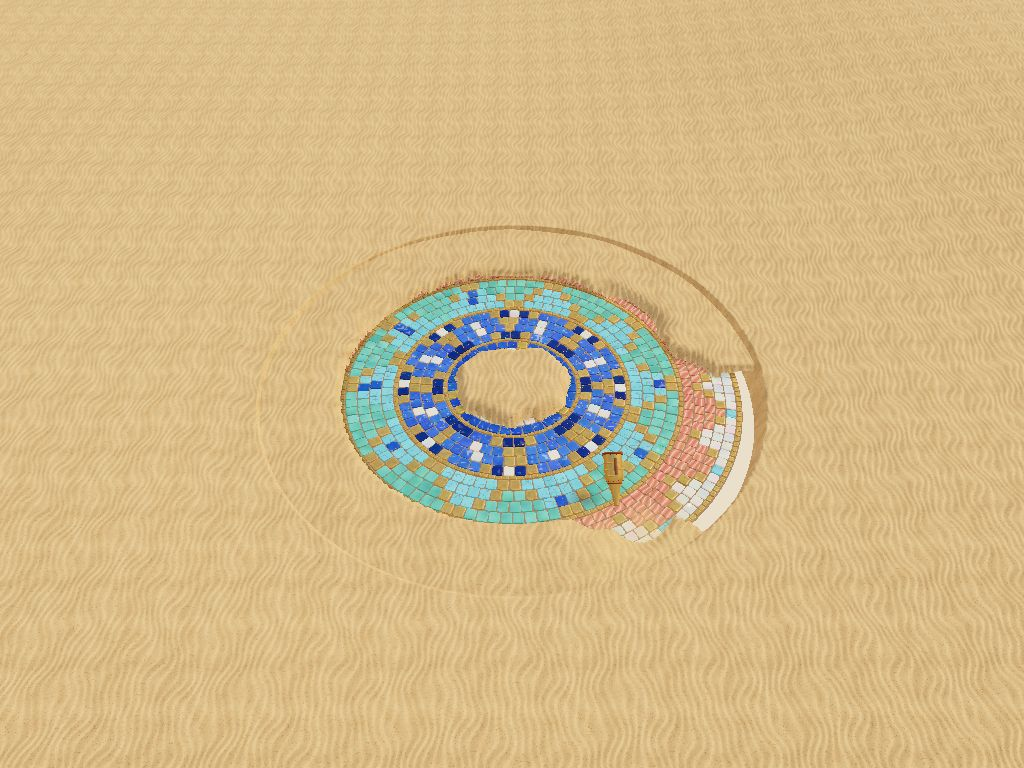
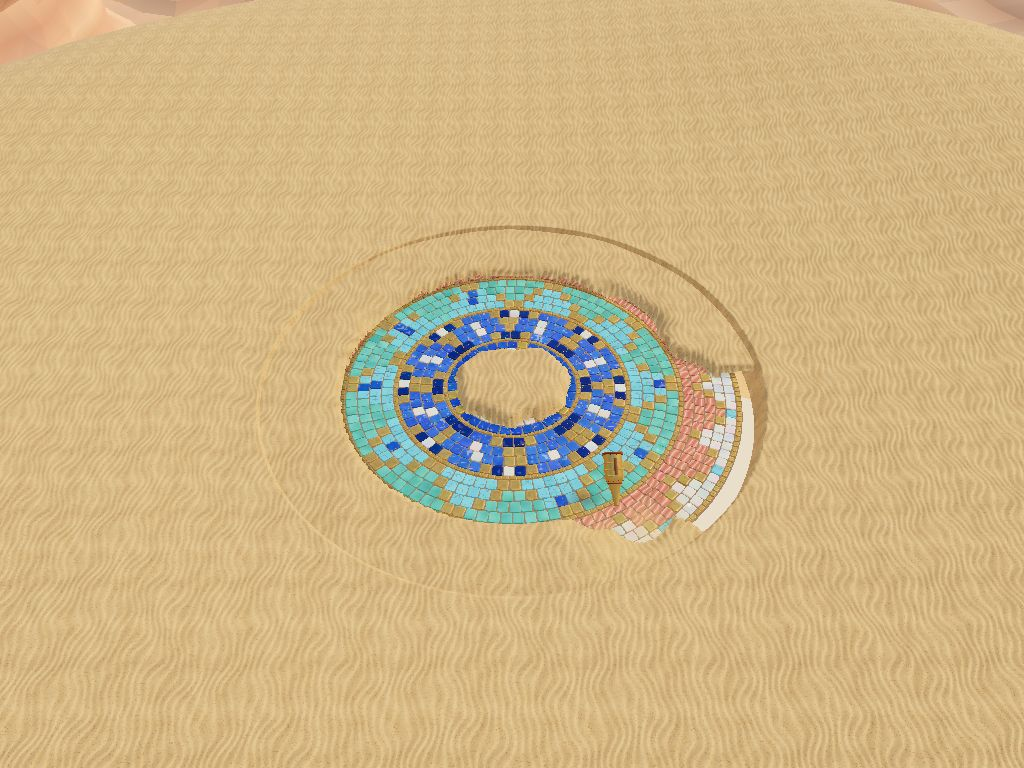
E07: final test log, screenshots, thumbnail and notes
Claude-Session: https://claude.ai/code/session_017tygc2wiUSmheFGSAZKCV9

diff --git a/logs/e07/notes.md b/logs/e07/notes.md
@@ -1,0 +1,40 @@
+# E07 すなばくに ねむる たからもの — 実装メモ
+
+実装: `site/games/e07/index.html`（HTML + CSS + JS を1ファイル。Three.js r0.187.0 同梱版を importmap で読み込み。CDN・外部画像・外部モデル・音声ファイルなし）
+
+## 実装の要点
+
+- **遊び**: 砂に埋もれた直径14mの円形モザイク（＋砂岩の枠で直径約15.2m）を、真鍮の送風機で吹いて発掘する。指が触れている間は自動で送風（離すと0.3秒で停止）。タップでも一度に砂が飛ぶ。開始メニューなし、最初のタッチでそのまま開始。
+  - 砂は 256×256 の動的マスク（厚み）で管理。楕円の扇形ブラシ（段階ごとに幅 1.0/1.3/1.6/1.8m、指が速いほど広がる）で厚みを連続的に減らし、指の移動経路に沿ってスタンプを補間。砂の面はマスクで頂点を持ち上げたメッシュ（法線も高さから計算）なので、厚みのある砂の壁が削れていくように見える。薄い所は粒状に抜けて石が見える。
+  - 除去量に比例して粒子を出す（細かい砂粒＝速く飛ぶ、大きい砂粒＝放物線で落下・着地、砂煙＝広がって消える、最大不透明度 0.19）。プール方式・上限は画質ごと（2400/1000/400）。除去した量に応じてモザイクの外側に砂がわずかに積もる。
+  - 28区画（4段階×7区画、同心円の帯）。各区画 82% 除去で成功 → 残りを0.55秒で吹き飛ばす・区画の金の縁に光が走る・成功音・金の光粒子。段階完了で帯全体を光が一周（第2段階は内周と中周がつながる）。順序は強制せず、先の段階を掘っても保存。
+  - 放置時の誘導: 2.5秒 砂の隙間から石がきらめく／4秒 その辺りの砂が揺れる／6秒 送風機がそちらを向きファンが回って砂がふわっと舞う／以後くり返し。誘導だけで区画は完成しない。
+  - クライマックス（12秒）: 0〜2秒 中央の砂粒が吹き飛ぶ → 2〜5秒 中央円盤が0.15mせり上がり毎秒20°で回転 → 5〜7秒 太陽の意匠が輝く → 7〜9秒 光の波が内周・中周・外周へ → 9〜10秒 全体が輝き金の粒子 → 10〜12秒 落ち着く。その後フリープレイ（吹くと微細な砂と光の粒が舞う）、10秒操作がなければ風が約10秒かけて砂を戻し、最初の状態（青い石が一部見える）に戻る。
+- **絵作り**: 空はグラデーション＋太陽のシェーダー、積雲はノイズで変形した球の集合（下が平ら、陰が青灰色、縁の光）。地形は「発掘現場のある台地 → 谷へ下る → 谷に赤褐色の岩山（水平な地層の色、浸食された凹凸）→ 霞の地平線と、その向こうから立ち上がる積雲」。砂は手続き生成の色と風紋の法線マップ。モザイクは InstancedMesh の面取り石片（low 約1500 / mid 1900 / high 2600、厚み0.025〜0.07m、目地・高さのばらつき・わずかな傾き）。石の種類ごとに模様をシェーダーで追加（ラピスの金の斑点、トルコ石の母岩の筋、瑪瑙の縞、真珠母貝の見る角度で変わる虹色、金の傷）。周囲に砂が残っている石は暗くなる（掘った穴の感じ）。
+  - 送風機: 真鍮の胴・吸気口の中で回るファン・細くなるノズル・銅のリングとボルト・木の持ち手。指の位置を0.1秒で追い、本体は画面上で指より奥側に浮かぶ（指で隠れない）。送風中は振動。
+  - 時間帯: 発掘の進み具合に合わせて太陽仰角 55°→42°→28°、色・空・光の強さを指示文の表どおりに連続変化。環境マップはこの空と雲から PMREM で生成（時間帯が一定以上変わったとき再生成）。
+  - **白飛び対策（前回の反省）**: ACESFilmic、露出 0.96（最大でも +0.03）、ブルームは最大 1.1・しきい値 0.92。画面全体のフラッシュなし。光は石片の発光（金細工を中心、色石は自分の色）で表現し、全体発光の色石への寄与を小さくした。クライマックス最大時のスクリーンショットで、太陽の意匠・各色石・輪郭・空/雲/岩山が見えることを確認。
+- **カメラ**: モザイク中心を常に画面中央に置く固定軸。縦横どちらでも、外縁（せり上がり分を含む）が画面短辺の65〜80%に入るよう、毎フレーム距離を計算（縦横の視野角の両方で判定）。段階が進むと少しずつ引く。クライマックスとフリープレイは、レンズシフト（`setViewOffset`）で「モザイク中心は画面中央のまま」空・岩山・積雲が上部に入る構図にする。ロール0、補間約2秒。
+- **入力**: Pointer Events、最初の pointerId のみ、setPointerCapture、pointercancel / lostpointercapture / blur / タブ非表示 / 画面回転で送風停止。touch-action・選択・長押し・ダブルタップ・ピンチを抑止。
+- **音**: WebAudio のみ（最初のタッチで生成/resume）。風（ピンクノイズ）、控えめな持続音、送風機のモーター（80〜155Hz＋倍音）、送風（帯域ノイズ）、砂粒（短い高域ノイズ）、発見音（ペンタトニック）、成功音（段階ごとに 単音＋倍音 → 2音 → 三和音＋金属の余韻 → 付加音つき和音）、クライマックス（C4 G4 C5 E5 G5 D6 のアルペジオと和音、長い残響）。手続き生成のインパルス応答（0.7秒／1.8秒）、マスターにコンプレッサー。
+- **画質**: `?q=low|mid|high` で固定（自動調整停止）。指定なしは mid で開始し、48fps未満が3秒で1段階下げ、57fps以上が10秒で上げる（クールダウン10秒、クライマックス中は上げない）。high: PR1.75/影2048/ブルーム、mid: PR1.25/影1024/半解像度ブルーム、low: PR1.0/影なし（送風機の簡易接地影）/ブルームなし（発光のみ）。
+- **状態**: INTRO → STAGE_1〜4 → CLIMAX → FREE_PLAY → RESET → INTRO。`window.__ready`、`window.__errors`（Three.js より前に監視開始）、`window.__test`（state, done, climax, peak, free, reset, intro2 など）。`?autotest` は通常と同じ onDown/onMove/onUp に合成イベントを流し、全28区画を実際に吹いて発掘（第2段階の1区画はタップのみ、各段階で1回「指を止めたまま」も試す）→ クライマックス → フリープレイ → 放置で砂が戻り INTRO まで。乱数はシード固定。
+- **画面の文字**: なし（読み込み中は金色の円が脈打つだけ）。
+
+## 確認結果（このクラウド環境）
+
+- `python3 -m http.server`（ルート `site/`）＋ Playwright ヘッドレス Chromium（SwiftShader）で `games/e07/index.html?autotest&q=low` を 1024x768（横）と 768x1024（縦）で全工程実行。結果は `logs/e07/test.txt`。テストスクリプトは `logs/e07/run-test.js`。
+- **横・縦とも PASS**: `__ready === true`、`__errors` 空、コンソールエラーなし。28区画発掘 → クライマックス（最大の光の瞬間に到達）→ フリープレイ → 砂が戻って INTRO まで。各約3分。
+- `q=mid`・`q=high` は開始〜数区画（約30秒）を実行し、`__ready`、エラーなし、コンソールエラーなしを確認（影・ブルーム有効で成功時の光が白飛びしないことも目視）。全工程は未実行。
+- スクリーンショット: `shot-1.jpg`（序盤・3区画）、`shot-2.jpg`（中盤・15区画）、`shot-3.jpg`（クライマックス約9秒＝最大の光付近）、`p-shot-1〜3.jpg`（縦の同場面）。すべて 300KB 以下の JPEG。縦横ともモザイクが画面中央にあり見切れていない。
+- サムネイル: `site/thumbs/e07.jpg`（クライマックスの画面を 640x480 に縮小、約70KB、文字なし）。
+- 禁止語4語（ひらがな・カタカナ表記を含む）が `site/games/e07/` と `logs/e07/` にないことを grep で確認。
+- 外部通信: ゲーム本体は外部にアクセスしない。共通の `../../gf-playlog.js` のビーコンだけはテストで 204 を返して代用。
+
+## 未解決・注意点
+
+- iPad Safari 実機での動作・FPS・タッチ感触は未確認（SwiftShader は CPU 描画で 2〜5fps のため性能の指標にならない）。
+- 自動テストとスクリーンショットは q=low（影・ブルームなし）なので、画像は実際の mid/high より平板に見える。クライマックスの光も low では発光のみで控えめ。
+- 指示文との差: クライマックス／フリープレイのカメラは見下ろし角が約37°（指示文は50〜65°）。50°以上だと空・岩山・雲がまったく画面に入らないため、レンズシフトで中心を保ったまま角度を浅くした。プレイ中は56°〜44°。送風機は見やすさのため全長約1.45m（指示文 0.9〜1.2m）。ブルームしきい値は 0.92。
+- 石片数は起動時の画質で決まり、実行中に画質が変わっても作り直さない。
+- 空は「地平線の霞」の帯が中心で、深い青は上端の一部にしか出ない（構図上の制約）。
